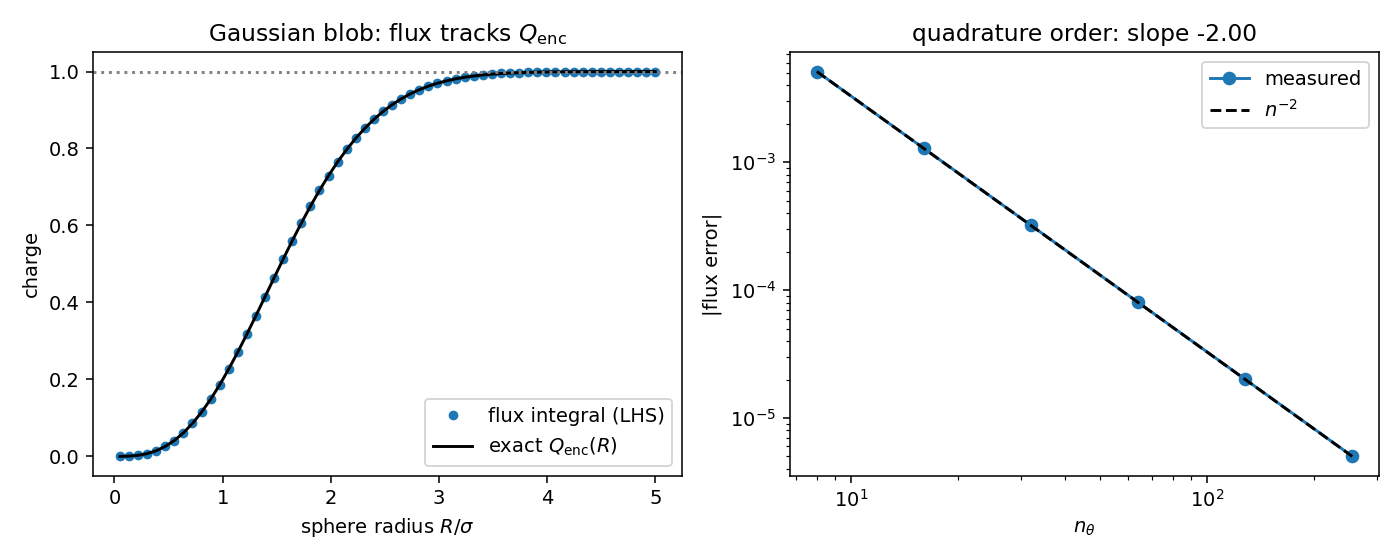
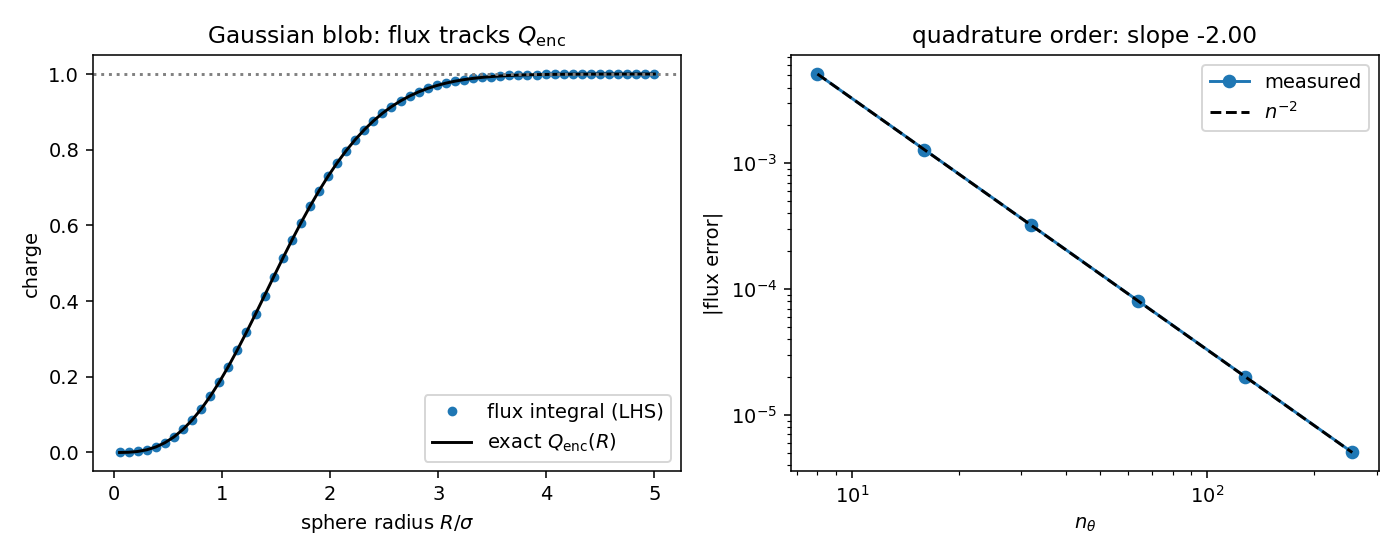
Add an Euler quadrature option and fix RHS check 5.
sphere_grid/sphere_flux take rule='euler' (left endpoint). Check 7 shows it
is the trapezoid rule here -- sin(theta) vanishes at both poles -- so it is
O(h^2) with error -2x the midpoint rule, matching -pi^2/(12 n^2) exactly for
a centred charge.

Check 5 compared against the total charge, but narrow off-centre blobs leak
~4e-4 of it through the sphere. enclosed_charge_offset() gives the exact
enclosed charge (noncentral chi CDF); all four columns now agree to 5e-6.

diff --git a/agentic/03_Numerical_Differentiation/Gausslawproblem.py b/agentic/03_Numerical_Differentiation/Gausslawproblem.py
@@ -48,34 +48,63 @@ def enclosed_charge(q, sigma, s):
     return q * (erf(u / np.sqrt(2)) - np.sqrt(2 / np.pi) * u * np.exp(-u**2 / 2))
 
 
+def enclosed_charge_offset(q, sigma, r0, R):
+    """Charge of a Gaussian blob centred at r0 inside the sphere |r| < R.
+
+    With d = |r0| > 0 and a, b = (R - d)/sigma, (R + d)/sigma, the enclosed
+    fraction is the CDF of a noncentral chi distribution with 3 degrees of freedom:
+
+        (1/2)[erf(a/sqrt2) + erf(b/sqrt2)] - sigma/(d sqrt(2 pi)) [e^{-a^2/2} - e^{-b^2/2}].
+
+    It tends to enclosed_charge() as d -> 0, but the second term is 0/0 at d = 0
+    exactly, so a centred blob must use enclosed_charge() instead.
+    """
+    d = np.linalg.norm(r0)
+    a, b = (R - d) / sigma, (R + d) / sigma
+    return q * (0.5 * (erf(a / np.sqrt(2)) + erf(b / np.sqrt(2)))
+                - sigma / (d * np.sqrt(2 * np.pi)) * (np.exp(-a**2 / 2) - np.exp(-b**2 / 2)))
+
+
 def superpose(*fields):
     return lambda r: sum(f(r) for f in fields)
 
 
 # ---------------------------------------------------------------- the LHS
 
-def sphere_grid(R, center, n_theta, n_phi):
-    """Midpoint quadrature nodes on a sphere: points, outward normals, weights.
+# where in each step the integrand is sampled, as a fraction of the step
+RULES = {'midpoint': 0.5,     # middle of each cell
+         'euler': 0.0}        # left endpoint: Euler's method applied to an integral
+
+
+def sphere_grid(R, center, n_theta, n_phi, rule='midpoint'):
+    """Quadrature nodes on a sphere: points, outward normals, weights.
 
     Parametrize by (theta, phi); the outward normal is the radial unit vector and
     dA = R^2 sin(theta) dtheta dphi. Midpoint sampling keeps every node off the
     poles, so no node is special. The rule is O(h^2) in theta; in phi the
     integrand is periodic, where midpoint sampling converges far faster, so the
     theta grid alone sets the error.
+
+    rule='euler' samples the left end of each step instead. Euler is normally
+    O(h), but the sin(theta) in dA makes the integrand vanish at both theta = 0
+    and theta = pi, and a left-endpoint sum with equal end values is exactly the
+    trapezoid rule -- O(h^2), with error -2x the midpoint error (check 7).
+    Its theta = 0 row sits on the pole, harmlessly: its weight is sin(0) = 0.
     """
     center = np.asarray(center, float)
+    shift = RULES[rule]
     dth, dph = np.pi / n_theta, 2 * np.pi / n_phi
-    TH, PH = np.meshgrid((np.arange(n_theta) + 0.5) * dth,
-                         (np.arange(n_phi) + 0.5) * dph, indexing='ij')
+    TH, PH = np.meshgrid((np.arange(n_theta) + shift) * dth,
+                         (np.arange(n_phi) + shift) * dph, indexing='ij')
     n = np.stack([np.sin(TH) * np.cos(PH),
                   np.sin(TH) * np.sin(PH),
                   np.cos(TH)], axis=-1)
     return center + R * n, n, np.sin(TH) * R**2 * dth * dph
 
 
-def sphere_flux(E, R, center=(0., 0., 0.), n_theta=200, n_phi=400):
+def sphere_flux(E, R, center=(0., 0., 0.), n_theta=200, n_phi=400, rule='midpoint'):
     """Net outward flux of E through a sphere of radius R. This is the LHS."""
-    pts, n, dA = sphere_grid(R, center, n_theta, n_phi)
+    pts, n, dA = sphere_grid(R, center, n_theta, n_phi, rule)
     return np.sum(np.sum(E(pts) * n, axis=-1) * dA)
 
 
@@ -228,6 +257,41 @@ def check_convergence_order():
     return ns, errs, slope
 
 
+def check_euler_vs_midpoint():
+    """Euler's method (left endpoint) against the midpoint rule, same grid.
+
+    Centred charge: E.n is constant, so the flux reduces to the rule applied to
+    int_0^pi sin(theta) dtheta = 2. Left endpoint with f(0) = f(pi) = 0 is the
+    trapezoid rule, whose error (-h^2/12)[f'(pi) - f'(0)] = +h^2/6 predicts a
+    relative error of exactly -pi^2 / (12 n_theta^2): Euler undershoots, where
+    midpoint overshoots by half as much (check 1). Off-centre, there is no closed
+    form, but the ratio of the two errors must still tend to -2, and both must
+    fit a slope of -2.
+    """
+    print("7. Euler (left endpoint) vs midpoint")
+    q = 1.0
+    E0, E1 = point_charge(q, [0, 0, 0]), point_charge(q, [0.4, 0.0, 0.0])
+    ns = np.array([16, 32, 64, 128, 256])
+    eu, mid = [], []
+    for n in ns:
+        rel = sphere_flux(E0, 1.0, n_theta=n, n_phi=2 * n, rule='euler') / q - 1
+        pred = -np.pi**2 / (12 * n**2)
+        eu.append(sphere_flux(E1, 1.0, n_theta=n, n_phi=2 * n, rule='euler') - q)
+        mid.append(sphere_flux(E1, 1.0, n_theta=n, n_phi=2 * n) - q)
+        print("   n_theta=%4d  centred: rel.err=%+.3e  predicted=%+.3e  |  off-centre: "
+              "euler=%+.3e  midpoint=%+.3e  ratio=%+.4f"
+              % (n, rel, pred, eu[-1], mid[-1], eu[-1] / mid[-1]))
+        assert abs(rel / pred - 1) < 0.01, "Euler error does not match the trapezoid prediction"
+    eu, mid = np.array(eu), np.array(mid)
+    s_eu = np.polyfit(np.log10(ns), np.log10(np.abs(eu)), 1)[0]
+    s_mid = np.polyfit(np.log10(ns), np.log10(np.abs(mid)), 1)[0]
+    print("   fitted slopes: euler %.3f, midpoint %.3f   (expect -2 for both)" % (s_eu, s_mid))
+    assert abs(s_eu + 2) < 0.1 and abs(s_mid + 2) < 0.1, "not second order"
+    assert abs(eu[-1] / mid[-1] + 2) < 0.01, "error ratio should tend to -2"
+    print("   same order; midpoint is 2x more accurate for the same work")
+    print("   OK\n")
+
+
 def make_figure(ns, errs, slope):
     q, sigma = 1.0, 1.0
     E = gaussian_blob(q, [0, 0, 0], sigma)
@@ -259,4 +323,5 @@ if __name__ == '__main__':
     check_off_center_and_superposition()
     check_partial_enclosure()
     ns, errs, slope = check_convergence_order()
+    check_euler_vs_midpoint()
     make_figure(ns, errs, slope)

diff --git a/agentic/03_Numerical_Differentiation/Gausslawproblem_rhs.py b/agentic/03_Numerical_Differentiation/Gausslawproblem_rhs.py
@@ -23,7 +23,7 @@ import numpy as np
 import matplotlib.pyplot as plt
 
 from Gausslawproblem import (point_charge, gaussian_blob, enclosed_charge,
-                             superpose, sphere_flux)
+                             enclosed_charge_offset, superpose, sphere_flux)
 
 EPS = np.finfo(float).eps
 H_OPT = EPS ** (1 / 3)        # ~6.1e-6: the central-difference optimum from notebook 3
@@ -213,25 +213,32 @@ def check_configurations():
     """Geometry that symmetry does not solve for you.
 
     Off-centre, wholly outside (both sides must vanish by cancellation), and a
-    superposition where one blob is enclosed and one is not.
+    superposition where one blob is enclosed and one is not. Blobs this narrow
+    still leak charge through the surface -- the off-centre one sits 3.75 sigma
+    from its nearest point and has ~4e-4 of q outside -- so the reference is the
+    exact off-centre formula, not the total charge.
     """
     print("5. configurations where symmetry gives no shortcut")
     sigma = 0.4
     worst = 0.0
 
     E, rho = gaussian_blob(1.0, [0.5, 0, 0], sigma), gaussian_density(1.0, [0.5, 0, 0], sigma)
-    g = report("blob off-centre, enclosed", E, rho, 2.0, 1.0)
+    g = report("blob off-centre, enclosed", E, rho, 2.0,
+               enclosed_charge_offset(1.0, sigma, [0.5, 0, 0], 2.0))
     worst = max(worst, *g)
 
     E, rho = gaussian_blob(2.0, [5.0, 0, 0], sigma), gaussian_density(2.0, [5.0, 0, 0], sigma)
-    g = report("blob entirely outside", E, rho, 1.0, 0.0)
+    g = report("blob entirely outside", E, rho, 1.0,
+               enclosed_charge_offset(2.0, sigma, [5.0, 0, 0], 1.0))
     worst = max(worst, *g)
 
     E = superpose(gaussian_blob(2.0, [0.3, 0.2, 0.0], sigma),
                   gaussian_blob(-3.0, [6.0, 0.0, 0.0], sigma))
     rho = lambda r: (gaussian_density(2.0, [0.3, 0.2, 0.0], sigma)(r)
                      + gaussian_density(-3.0, [6.0, 0.0, 0.0], sigma)(r))
-    g = report("two blobs, +2 in and -3 out", E, rho, 2.0, 2.0)
+    g = report("two blobs, +2 in and -3 out", E, rho, 2.0,
+               enclosed_charge_offset(2.0, sigma, [0.3, 0.2, 0.0], 2.0)
+               + enclosed_charge_offset(-3.0, sigma, [6.0, 0.0, 0.0], 2.0))
     worst = max(worst, *g)
 
     print("   worst disagreement: %.2e" % worst)

diff --git a/agentic/03_Numerical_Differentiation/Gauss_Law_Summary.md b/agentic/03_Numerical_Differentiation/Gauss_Law_Summary.md
@@ -15,6 +15,7 @@ with independent numerical routines. Units: $\varepsilon_0 = 1$.
 ## Key results
 
 - **Flux (LHS):** equals $Q_{\rm enc}$ for every configuration tried; the error falls as $h^2$ (fitted slope $-2$).
+- **Euler vs midpoint:** `sphere_flux(..., rule='euler')` uses left-endpoint (Euler) sums. Because $\sin\theta$ vanishes at both poles, Euler becomes the trapezoid rule, so it is also $O(h^2)$, but its error is $-2\times$ the midpoint error.
 - **Charges outside:** zero net flux comes from cancellation (gross $\oint|\mathbf E\cdot\hat n|\,dA \neq 0$), not from zero field.
 - **Divergence (RHS):** the step sweep shows a minimum near $h \approx \epsilon^{1/3} \approx 6\times10^{-6}$.
   Truncation error $\propto h^2$ (slope $+2$) dominates at large $h$; roundoff $\propto \epsilon/h$ (slope $-1$) dominates at small $h$.
@@ -22,6 +23,7 @@ with independent numerical routines. Units: $\varepsilon_0 = 1$.
 - **Shape doesn't matter:** on the lumpy surface, only whether a charge is enclosed counts. A charge in a dent (inside the sphere, outside the surface) gives zero.
   For a set of mixed-sign blobs, flux, $\int\nabla\cdot\mathbf E\,dV$ and $\int\rho\,dV$ agree to $\sim 10^{-6}$.
 
-## Open issue
+## Fixed: RHS check 5
 
-`Gausslawproblem_rhs.py` check 5 fails. Its reference value $Q_{\rm enc}=1$ for the off-centre blob ignores the part of the Gaussian outside $R=2$. The numerics agree with each other ($\int\rho\,dV = 0.99963$), so the expected value needs fixing, not the code.
+It used to fail because its reference $Q_{\rm enc}=1$ for an off-centre blob ignored the Gaussian tail outside $R=2$.
+It now uses `enclosed_charge_offset()`, the exact enclosed charge for an off-centre Gaussian (a noncentral-$\chi$ CDF). All four columns agree to $5\times10^{-6}$.
